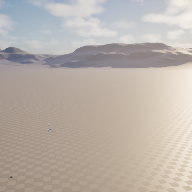
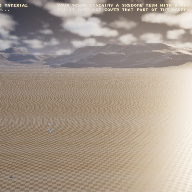
# [Fixes] Project can build again.

diff --git a/Plugins/AchievementPlugin/Source/AchievementPlugin/Private/AchievementPlatforms.cpp b/Plugins/AchievementPlugin/Source/AchievementPlugin/Private/AchievementPlatforms.cpp
@@ -5,6 +5,10 @@
 
 #include "AchievementLogCategory.h"
 #include "AchievementPlugin.h"
+	
+#include "HAL/PlatformFilemanager.h"
+#include "Misc/FileHelper.h"
+#include "Misc/Paths.h"
 
 // platform includes
 #include "Platforms/SteamPlatformAchievements.h"
@@ -18,12 +22,12 @@ bool UAchievementPlatformsClass::InitializePlatform(const EAchievementPlatforms 
 	selectedPlatform = platform;
 	switch (platform)
 	{
-		case STEAM:
+		case EAchievementPlatforms::STEAM:
 		{
 			achievementPlatformInitialized = SteamAchievementsClass::Initialize();
 			break;
 		}
-		case EOS:
+		case EAchievementPlatforms::EOS:
 		{
 			achievementPlatformInitialized = EpicGamesAchievementsClass::InitializeEOS();
 			break;
@@ -38,12 +42,12 @@ void UAchievementPlatformsClass::ShutdownPlatform()
 {
 	switch (selectedPlatform)
 	{
-		case STEAM:
+		case EAchievementPlatforms::STEAM:
 		{
 			SteamAchievementsClass::Shutdown();
 			break;
 		}
-		case EOS:
+		case EAchievementPlatforms::EOS:
 		{
 			EpicGamesAchievementsClass::Shutdown();
 			break;
@@ -57,11 +61,11 @@ bool UAchievementPlatformsClass::SetPlatformAchievementProgress(const FAchieveme
 {
 	switch (selectedPlatform)
 	{
-		case STEAM:
+		case EAchievementPlatforms::STEAM:
 		{
 			return SteamAchievementsClass::SetSteamAchievementProgress(platformData, progress, unlocked);
 		}
-		case EOS:
+		case EAchievementPlatforms::EOS:
 		{
 			return EpicGamesAchievementsClass::SetEpicAchievementProgress(platformData, progress, unlocked);
 		}
@@ -75,11 +79,11 @@ bool UAchievementPlatformsClass::PlatformDeleteAchievementProgress(const FAchiev
 {
 	switch (selectedPlatform)
 	{
-		case STEAM:
+		case EAchievementPlatforms::STEAM:
 		{
 			return SteamAchievementsClass::DeleteSteamAchievementProgress(platformData);
 		}
-		case EOS:
+		case EAchievementPlatforms::EOS:
 		{
 			return EpicGamesAchievementsClass::DeleteEpicAchievementProgress(platformData);
 		}
@@ -92,11 +96,11 @@ bool UAchievementPlatformsClass::PlatformDeleteAllAchievementProgress()
 {
 	switch (selectedPlatform)
 	{
-		case STEAM:
+		case EAchievementPlatforms::STEAM:
 		{
 			return SteamAchievementsClass::DeleteAllSteamAchievementProgress();
 		}
-		case EOS:
+		case EAchievementPlatforms::EOS:
 		{
 			return EpicGamesAchievementsClass::DeleteAllEpicAchievementProgress();
 		}
@@ -109,11 +113,11 @@ TMap<FString, FAchievementData> UAchievementPlatformsClass::GetPlatformAchieveme
 {
 	switch (selectedPlatform)
 	{
-		case STEAM:
+		case EAchievementPlatforms::STEAM:
 		{
 			return SteamAchievementsClass::GetSteamAchievementsAsAchievementDataMap();
 		}
-		case EOS:
+		case EAchievementPlatforms::EOS:
 		{
 			return EpicGamesAchievementsClass::GetEpicAchievementsAsAchievementDataMap();
 		}
@@ -127,12 +131,12 @@ void UAchievementPlatformsClass::Tick(float DeltaTime)
 	if (!achievementPlatformInitialized) return;
 	switch (selectedPlatform)
 	{
-		case STEAM:
+		case EAchievementPlatforms::STEAM:
 		{
 			SteamAchievementsClass::Tick();
 			break;
 		}
-		case EOS:
+		case EAchievementPlatforms::EOS:
 		{
 			EpicGamesAchievementsClass::Tick();
 		}

diff --git a/Plugins/AchievementPlugin/Source/AchievementPlugin/Public/AchievementStructs.h b/Plugins/AchievementPlugin/Source/AchievementPlugin/Public/AchievementStructs.h
@@ -40,11 +40,11 @@ struct ACHIEVEMENTPLUGIN_API FAchievementProgress
 public:
 	FAchievementProgress() = default;
 
-	UPROPERTY(EditAnywhere, BlueprintReadWrite, meta = (ClampMin = "0"), SaveGame)
+	UPROPERTY(EditAnywhere, BlueprintReadWrite, Category = "Achievement Progress", meta = (ClampMin = "0"), SaveGame)
 	float progress = 0;
-	UPROPERTY(EditAnywhere, BlueprintReadWrite, SaveGame)
+	UPROPERTY(EditAnywhere, BlueprintReadWrite, Category = "Achievement Progress", SaveGame)
 	bool bIsAchievementUnlocked = false;
-	UPROPERTY(EditAnywhere, BlueprintReadWrite, SaveGame)
+	UPROPERTY(EditAnywhere, BlueprintReadWrite, Category = "Achievement Progress", SaveGame)
 	FString unlockedTime = "Never";
 };
 

diff --git a/Plugins/AchievementPlugin/Source/AchievementPlugin/Public/AchievementPlatformsEnum.h b/Plugins/AchievementPlugin/Source/AchievementPlugin/Public/AchievementPlatformsEnum.h
@@ -1,18 +1,21 @@
 // ReSharper disable CppInconsistentNaming
 #pragma once
+#include "CoreMinimal.h"
+#include "UObject/ObjectMacros.h"
+#include "AchievementPlatformsEnum.generated.h"
 
 UENUM()
 enum EAchievementPlatforms : uint8
 {
-	LOCALONLY = 0,
-	STEAM,
-	EOS
+	LOCALONLY UMETA(DisplayName = "Local Only"),
+	STEAM UMETA(DisplayName = "Steam"),
+	EOS UMETA(DisplayName = "EOS")
 };
 
 UENUM()
 enum EAchievementUploadTypes : uint8
 {
 	// cannot use capitals because of the typedef conflict
-	Float = 0,
-	Int32
+	Float UMETA(DisplayName = "Float"),
+	Int32 UMETA(DisplayName = "Int32")
 };

diff --git a/Plugins/AchievementPlugin/Source/AchievementPlugin/Private/AchievementPluginBPLibrary.cpp b/Plugins/AchievementPlugin/Source/AchievementPlugin/Private/AchievementPluginBPLibrary.cpp
@@ -2,15 +2,9 @@
 
 #include "AchievementPluginBPLibrary.h"
 
-#include "EdGraphSchema_K2.h"
-#include "BlueprintActionDatabaseRegistrar.h"
-#include "BlueprintNodeSpawner.h"
-#include "KismetCompiler.h"
-
 #include "AchievementLogCategory.h"
 #include "AchievementPlatforms.h"
 #include "AchievementPlugin.h"
-#include "K2Node_CallFunction.h"
 #include "USaveSystem.h"
 
 UAchievementPluginBPLibrary::UAchievementPluginBPLibrary(const FObjectInitializer& objectInitializer)

diff --git a/Plugins/AchievementPlugin/Source/AchievementPlugin/Public/AchievementPlatforms.h b/Plugins/AchievementPlugin/Source/AchievementPlugin/Public/AchievementPlatforms.h
@@ -1,6 +1,8 @@
 #pragma once
 #include "AchievementPlatformsEnum.h"
 #include "AchievementStructs.h"
+#include "Tickable.h"
+#include "Engine/Engine.h"
 
 #include "AchievementPlatforms.generated.h"
 
